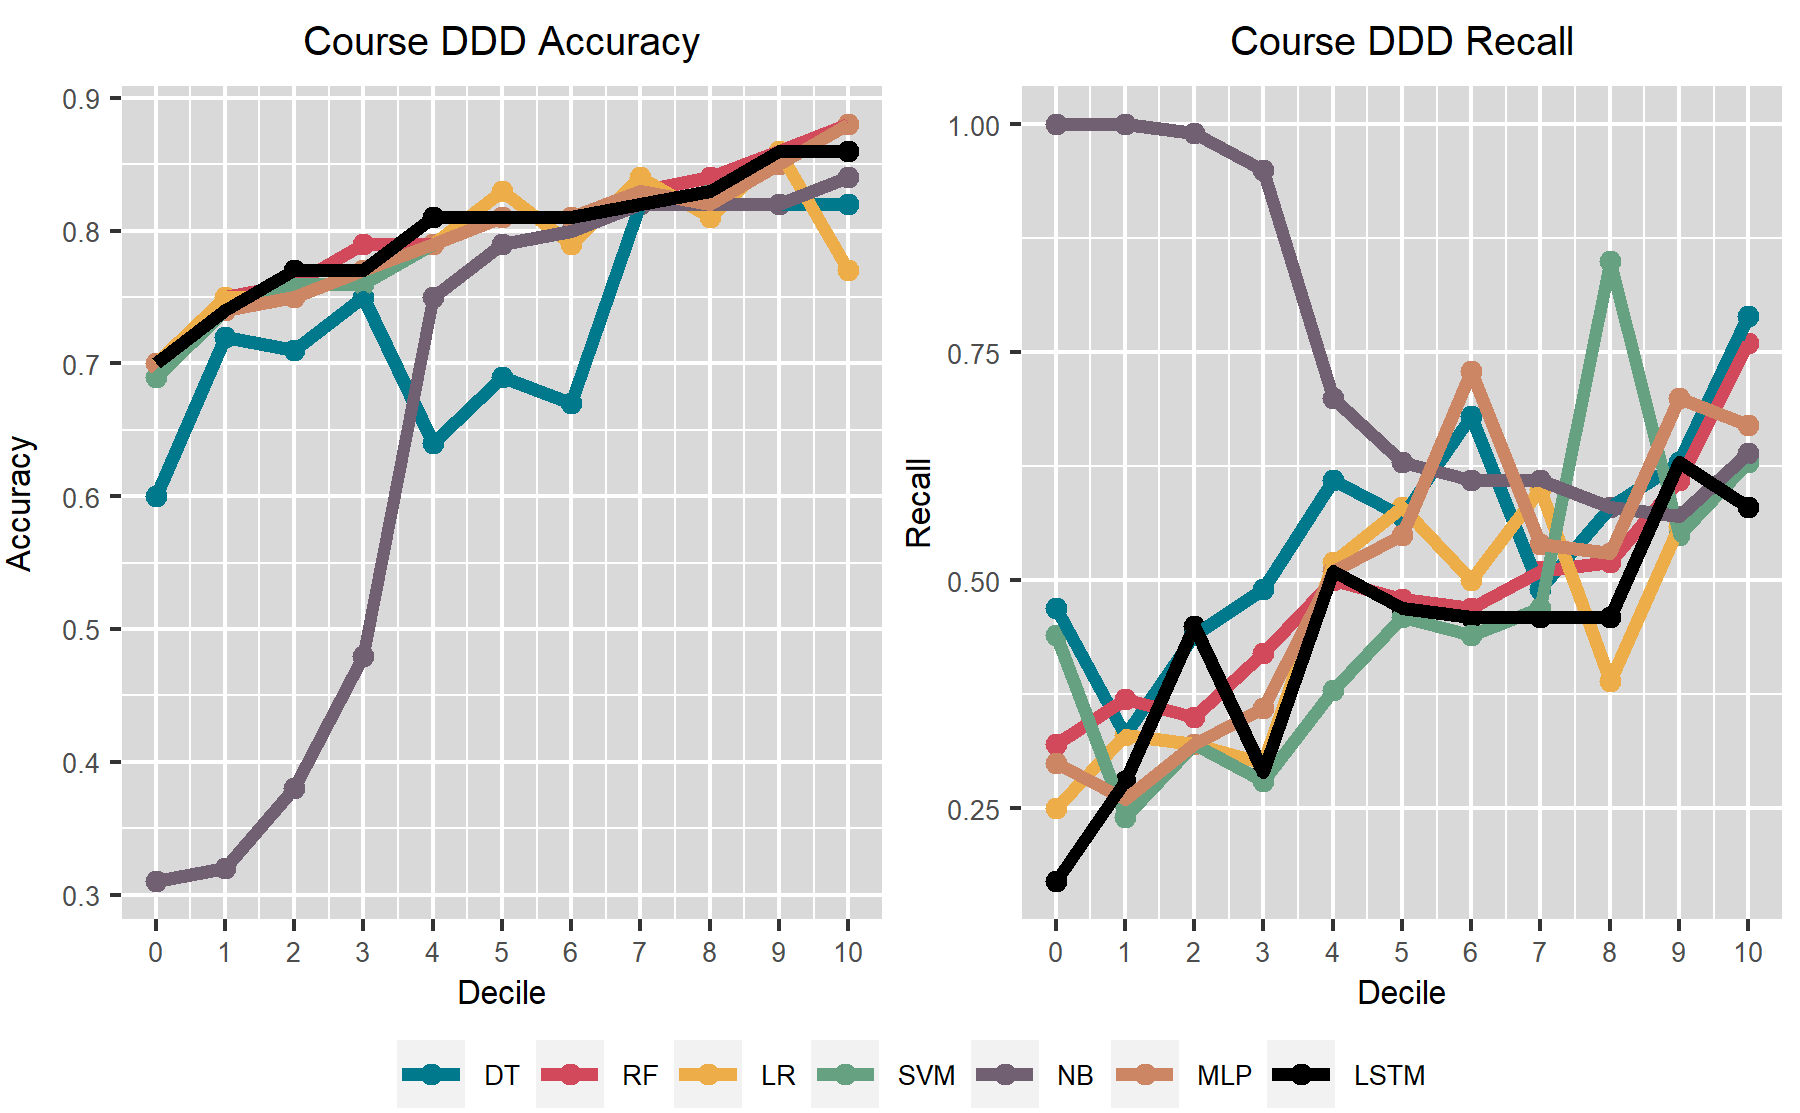
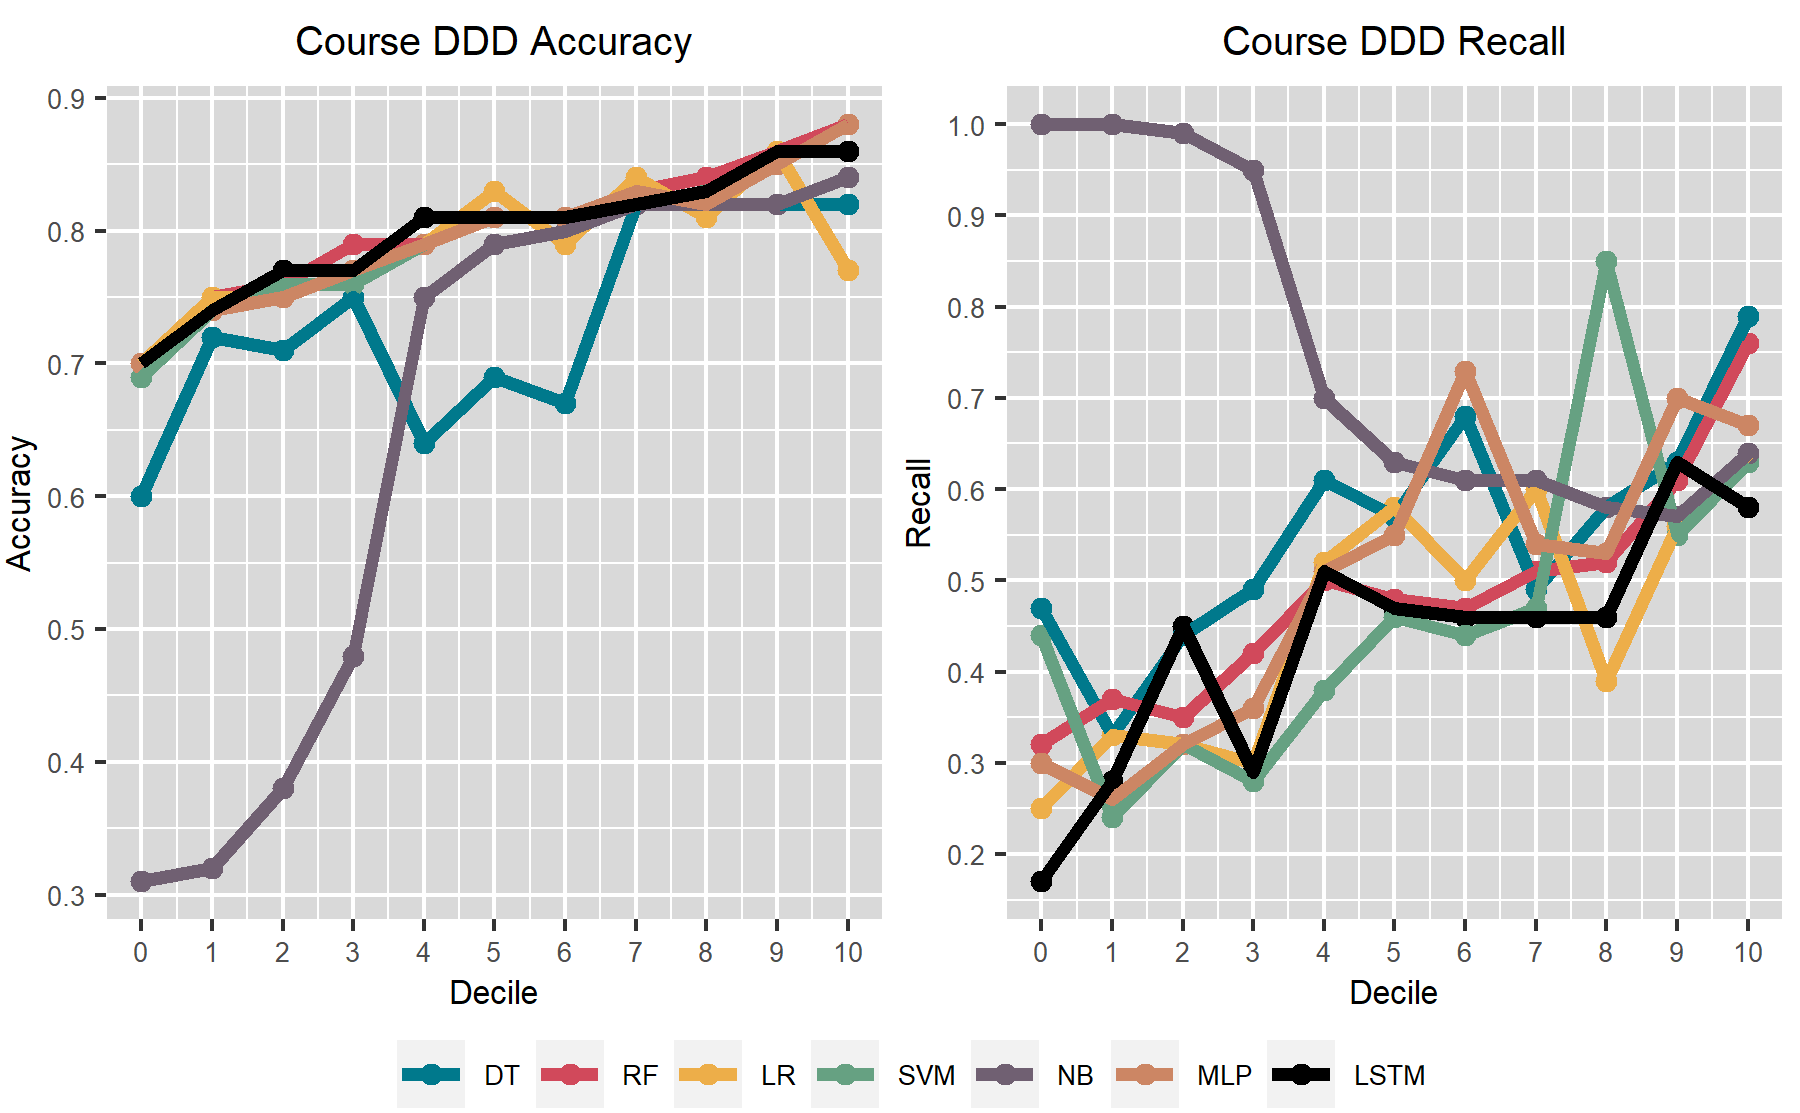
graphs results student prediction

diff --git a/Student Performance Prediction.html b/Student Performance Prediction.html
@@ -1527,6 +1527,10 @@ print(accuracy_score(y_test, predictions))
 print(confusion_matrix(y_test, predictions))						
 							</code></pre>
 							
+							<p>
+							The next section shows the results after all models have been trained and tested on the test data.
+							</p>
+							
 						</div>
 					</section>					
 								
@@ -1541,7 +1545,103 @@ print(confusion_matrix(y_test, predictions))
 
 							<img src="images/pic08small.jpg" alt="" />
 
-							<p>This is the results phase.</p>
+							<p>
+							In order to assess which model performs the best, accuracy seems like the most obvious performance metric to consider.
+							However, if we take into account that more students pass a course than fail, it becomes apparent that results based on accuracy could be misleading due to the imbalanced target classes.
+							For example, if a model would predict every student to pass in course BBB where 76% of the test set students actually passed the course, the accuracy score would end up being 76% which would imply that the model performs well, while it is essentially useless.
+							Therefore, we will take the recall score of the models into account in addition to the accuracy.
+							In this application, the recall score represents the fraction of students that are correctly predicted to fail the course relative to the students that actually failed the course.
+							In other words, the recall score indicates how well the model identifies failing students.
+							Consequently, the recall score will be 0 if the model predicts every student to pass and functions as a validity check on the accuracy metric.
+							A model with both a high accuracy and recall score can be considered as a good model with satisfactory performance.
+							</p>
+							
+							<p>
+							I extracted the accuracy and recall scores for each model and stored them in Excel sheets.
+							Afterwards, I loaded the Excel sheets into R in order to generate graphs illustrating the performance of each model in the respective courses.
+							The code block below shows this process in which I make use of loops to create multiple charts.
+							</p>
+
+
+							
+							<pre class="prettyprint lang-r"><code>
+library("readxl")
+library("reshape2")
+library("cowplot")
+
+# Import excel sheets
+Performance_lst <- lapply(1:6, function(i) read_excel("Model Performance Sheets.xlsx", sheet = i))
+
+# Make a list of dataframes, each dataframe corresponding to the accuracy or recall results for one of the three courses
+Performance_dfs <- list()
+
+for (i in 1:length(Performance_lst)){
+  Performance_dfs[[i]] <- data.frame(Performance_lst[i])                                      # Turn tibbles into dataframes
+  
+  names(Performance_dfs[[i]])[1] <- "Decile"                                                  # Rename first column to "Decile"
+  Performance_dfs[[i]]$Decile <- c(0:10)                                                      # Make "Decile" variable numerical
+  
+  Performance_dfs[[i]] <- melt(Performance_dfs[[i]], id.var = "Decile")                       # Melt variables together for ggplot convenience
+  Performance_dfs[[i]]$variable<-factor(Performance_dfs[[i]]$variable,
+                                        levels=c("DT","RF","LR","SVM","NB", "MLP", "LSTM"))   # Reorder variables for plotting purposes later on
+}
+
+# Give a name to each dataframe in the list
+names(Performance_dfs) <- c("Course BBB Accuracy","Course BBB Recall",
+                            "Course DDD Accuracy","Course DDD Recall",
+                            "Course FFF Accuracy","Course FFF Recall")
+
+
+# Make a plot showing the performance of each model in terms of accuracy / recall for each course
+perf_plots <- list()
+
+for (i in 1:length(Performance_dfs)){
+  perf_plots[[i]] <- ggplot(data=Performance_dfs[[i]], aes(x=Decile, y = value, colour = variable)) +                      # Specify dataframe and variables for line chart
+    geom_point(size = 2) +                                                                                                 # Size of markers in plot
+    geom_line(size = 1.5) +                                                                                                # Size of lines in plot
+    scale_colour_manual("",                                                                                                # Set Colors for each line
+                        breaks = c("DT", "RF", "LR","SVM","NB","MLP", "LSTM"),
+                        values = c("#00798c", "#d1495b", "#edae49", "#66a182", "#706072", "#cc8664", "black")) +
+    ggtitle(names(Performance_dfs)[i]) +                                                                                   # Plot title
+    xlab("Decile") +                                                                                                       # X-label
+    ylab(tail(strsplit(names(Performance_dfs)[i], split=" ")[[1]],1)) +                                                    # Y-label: grab last word from the list element name which is either accuracy or recall
+    theme(plot.title = element_text(hjust = 0.5),                                                                          # Style of plot
+          panel.background = element_rect(fill = "grey85"),
+          plot.background = element_rect(fill = "transparent", color = NA),
+          legend.background = element_rect(fill = "transparent", color = NA),
+          text = element_text(size=8),
+          plot.margin = unit(c(6,4,6,1), "pt")) +
+    scale_x_continuous(breaks = seq(0, 10, by = 1)) +                                                                     # Scale and intervals x-label
+    scale_y_continuous(breaks = seq(0, 1, by = 0.1))                                                                      # Scale and intervals y-label
+}
+
+# Create a grid with the accuracy and recall plots for the specific courses side-by-side and export them
+file_names <- c("BBB_Performance.png",0, "DDD_Performance.png",0, "FFF_Performance.png")
+
+for (i in c(1,3,5)){
+  duo_plot <- plot_grid( perf_plots[[i]] + theme(legend.position="none"),
+                         perf_plots[[i+1]] + theme(legend.position="none"),
+                         align = 'vh',
+                         nrow = 1,
+                         ncol = 2)
+  
+  # Extract the legend of the accuracy plot and make it horizontal
+  legend <- get_legend(perf_plots[[i]] +
+                         guides(colour=guide_legend(nrow=1, byrow=TRUE), shape=guide_legend(nrow=1, byrow=TRUE)) +
+                         theme(legend.direction = "horizontal",legend.justification="center" ,legend.box.just = "bottom"))
+  
+  # Add the shared legend to the grid
+  p <- plot_grid(duo_plot, legend, align = "h", axis = "t", rel_heights = c(4,.3), nrow = 2)
+  
+  save_plot(file_names[i],plot = p, bg = "transparent")
+}
+							</code></pre>
+							
+							<p>
+							The first two graphs below illustrate the accuracy and recall score of each model applied to course BBB.
+							
+							</p>
+							
 							
 							<img src="images/Project1/BBB_Performance.png" width = "1200", heigth = "600" alt="" />
 							
@@ -1580,4 +1680,4 @@ print(confusion_matrix(y_test, predictions))
 			<script src="https://cdn.jsdelivr.net/gh/google/code-prettify@master/loader/run_prettify.js"></script>
 
 	</body>
-</html>
+</html
